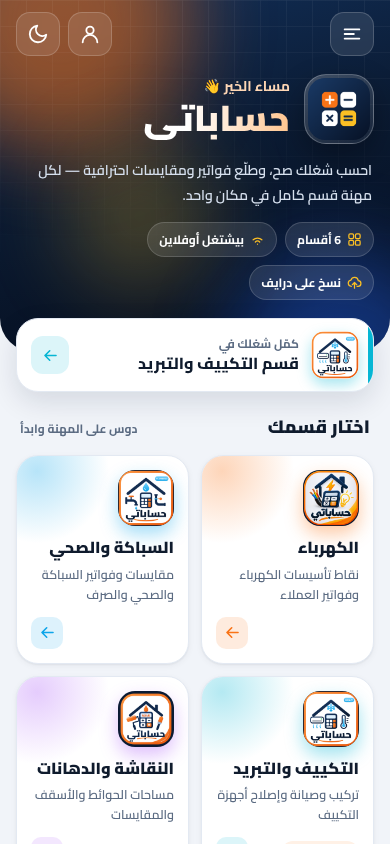
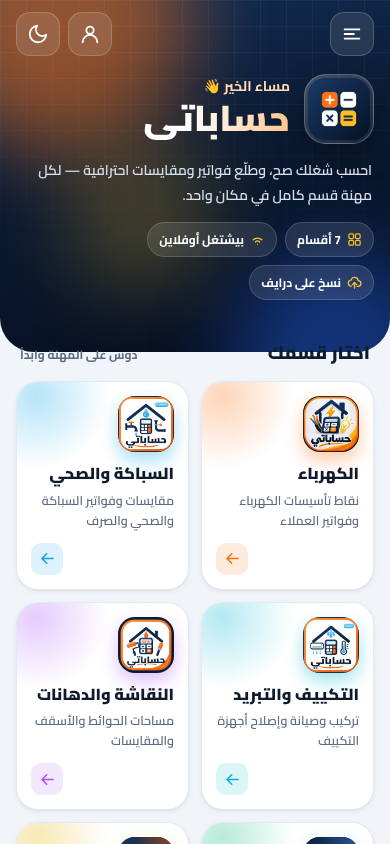
Verification report: Plastering section results
Claude-Session: https://claude.ai/code/session_01LBYiHsm7HtHb8xXrtnoD4h

Changed region(s): [[0.0308, 0.3697, 0.9846, 1.0]]

diff --git a/Documentation/VERIFICATION.md b/Documentation/VERIFICATION.md
@@ -89,3 +89,14 @@ in-memory Google Drive v3 (same requests/responses, CORS, bearer tokens). Everyt
 * Restore rejects files that are not Hisabati backups or contain foreign keys/databases.
 
 Screenshots: `Documentation/screenshots/`.
+
+## 6. Plastering section added (2026-11-20)
+* Source: `Hesabaty-plaster` GitHub `main` @ `ac46676` (v1.0.0). The local clone from the first
+  session was still empty and was not touched. Copied with `git archive` → 44 files, byte-identical
+  (`.provenance/Hesabaty-plaster@main.sha256`, `tools/verify-integrity.sh`).
+* Integration checks: unique storage prefix `hplaster_`, cache prefix `hplaster-`, no IndexedDB,
+  no frame-busting, hash-based navigation (`#/home`) — works inside the launcher unchanged.
+* The app's own suites, original vs. copy: engine **16/16 = 16/16**, browser e2e **PASSED = PASSED**
+  (including "clear all data clears only plastering data").
+* Launcher suites with 7 sections: `launcher.e2e.js` **151/151**, `cloud-backup.e2e.js` **36/36**
+  (backup/restore include `hplaster_*`), `launcher.offline.js` **20/20** (8 separate service workers).
